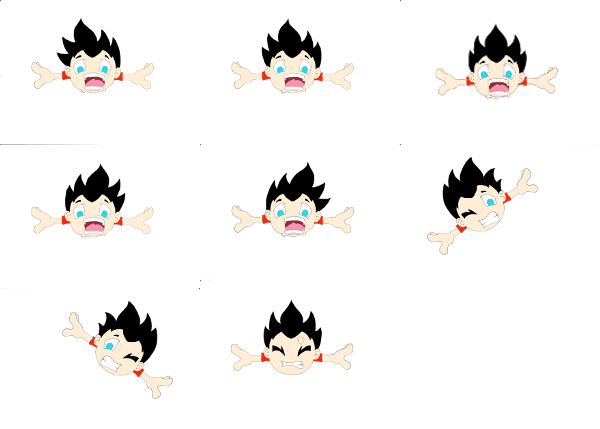
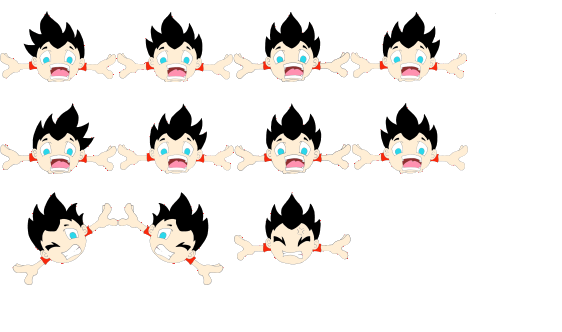
player working
check plz

diff --git a/player.js b/player.js
@@ -8,19 +8,19 @@ var ANIM_MAX = 3;
 
 var Player = function() 
 	{
-		this.sprite = new Sprite("steve.png");					
+		this.sprite = new Sprite("test.png");					
 
-		this.sprite.buildAnimation(3, 3, 200, 141, 0.05,		//idle
-			[0, 1, 2, 3, 4,]);
+		this.sprite.buildAnimation(4, 3, 118, 93, 0.05,		//idle
+			[0, 1, 2, 3, 4, 5, 6, 7]);
 
-		this.sprite.buildAnimation(3, 3, 200, 141, 0.05,		//fall left
-			[5]);
+		this.sprite.buildAnimation(4, 3, 118, 93, 0.05,		//fall left
+			[8]);
 
-		this.sprite.buildAnimation(3, 3, 200, 141, 0.05,		//fall right
-			[6]);
+		this.sprite.buildAnimation(4, 3, 118, 93, 0.05,		//fall right
+			[9]);
 
-		this.sprite.buildAnimation(3, 3, 200, 141, 0.05,		//fall right
-			[7]);
+		this.sprite.buildAnimation(4, 3, 118, 93, 0.05,		//collision
+			[10]);
 
 		for(var i=0; i<ANIM_MAX; i++)
 		{
